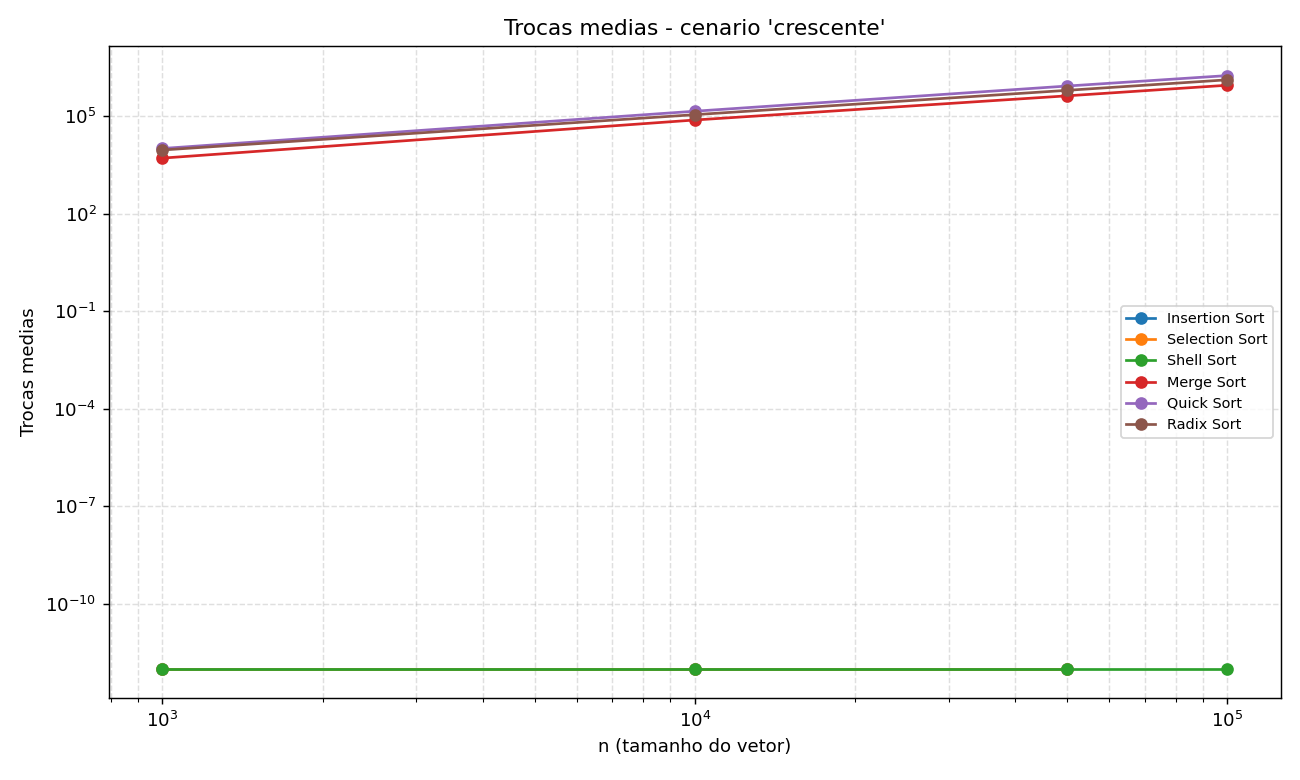
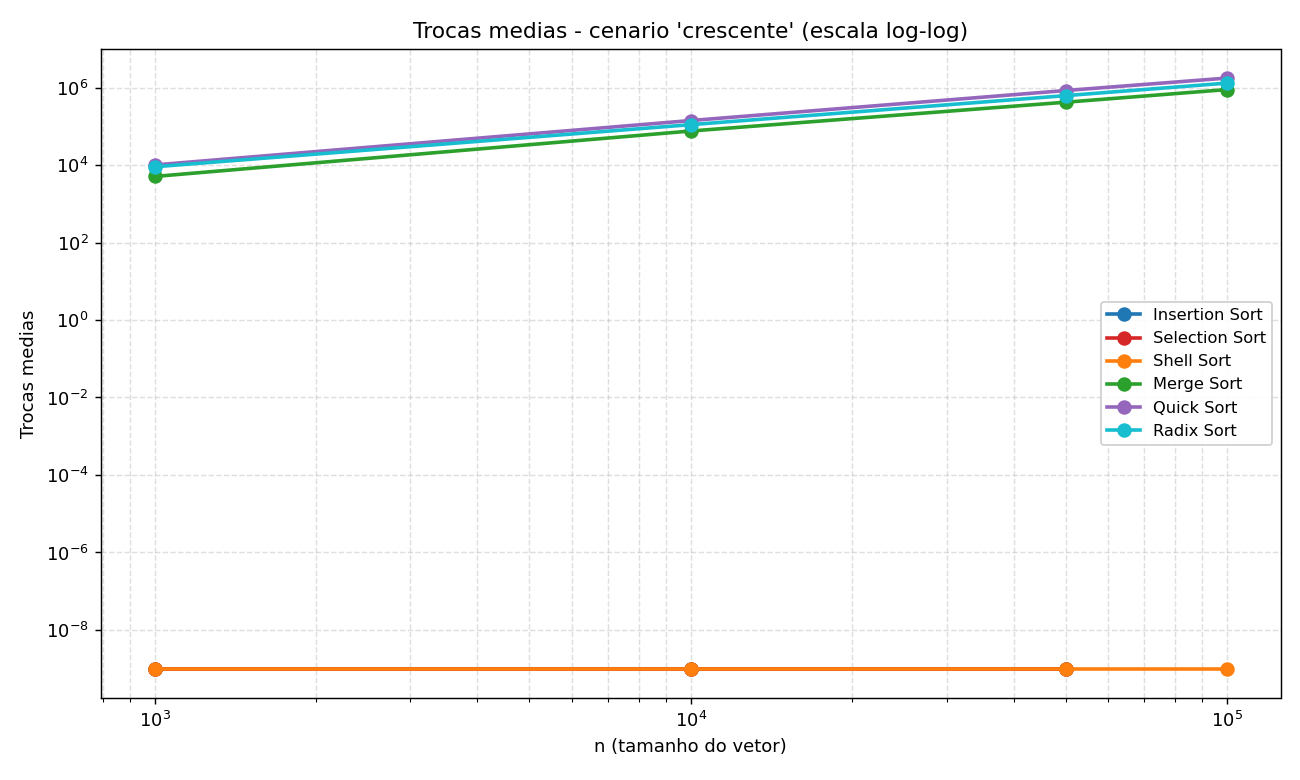
desafio2: graficos de tempo medio em ms + visualizacoes adicionais
- Tempo medio (ms): line charts log-log e barras agrupadas migrados de s -> ms,
  com cores consistentes por algoritmo e rotulos auto-escalaveis (us/ms/s).
- Novo: resumo_tempo_ms_por_algoritmo.png - grade 2x3 com cenarios sobrepostos
  por algoritmo, facilitando comparar comportamento entre cenarios.
- Novo: heatmap_tempo_ms.png - matriz algoritmo x (cenario, tamanho) com
  contraste de texto adaptativo, marcando TIMEOUTs com '-'.
- Novo: ranking_tempo_ms.png - barras horizontais ordenadas por cenario,
  escolhendo o maior tamanho com maior cobertura de algoritmos (e marcando
  TIMEOUTs explicitamente em vez de omiti-los).

https://claude.ai/code/session_01U2YK77NAQtfMPWeU8LprrY

diff --git a/desafio2/relatorio.py b/desafio2/relatorio.py
@@ -194,6 +194,26 @@ def _medias_indexadas(linhas: list[dict]):
     return out
 
 
+# Paleta consistente entre todos os graficos: cada algoritmo mantem a mesma cor.
+CORES_ALGOS = {
+    "Insertion Sort": "#1f77b4",
+    "Selection Sort": "#d62728",
+    "Shell Sort":     "#ff7f0e",
+    "Merge Sort":     "#2ca02c",
+    "Quick Sort":     "#9467bd",
+    "Radix Sort":     "#17becf",
+}
+
+
+def _fmt_ms(v_ms: float) -> str:
+    """Rotulo amigavel para tempos em ms (auto-escala us/ms/s)."""
+    if v_ms < 1:
+        return f"{v_ms * 1000:.0f} us"
+    if v_ms < 1000:
+        return f"{v_ms:.1f} ms"
+    return f"{v_ms / 1000:.2f} s"
+
+
 def gerar_graficos(linhas: list[dict], dest: Path) -> None:
     dest.mkdir(parents=True, exist_ok=True)
     med = _medias_indexadas(linhas)
@@ -201,13 +221,14 @@ def gerar_graficos(linhas: list[dict], dest: Path) -> None:
     algos = list(ALGORITMOS.keys())
     tamanhos_ord = list(TAMANHOS.keys())
 
-    # 1) Linhas: x = n, y = indicador medio, uma curva por algoritmo
-    #    (escala log-log para acomodar O(n^2) vs O(n log n)).
+    # -----------------------------------------------------------------------
+    # 1) Linhas log-log por cenario: tempo medio (ms), comparacoes, trocas.
+    # -----------------------------------------------------------------------
     for cen in CENARIOS_ESCALAVEIS:
-        for chave_ind, nome_ind in [
-            ("tempo_s", "Tempo medio (s)"),
-            ("comparacoes", "Comparacoes medias"),
-            ("trocas", "Trocas medias"),
+        for chave_ind, nome_ind, em_ms in [
+            ("tempo_s",     "Tempo medio (ms)",   True),
+            ("comparacoes", "Comparacoes medias", False),
+            ("trocas",      "Trocas medias",      False),
         ]:
             fig, ax = plt.subplots(figsize=(10, 6))
             algo_plotado = False
@@ -216,10 +237,16 @@ def gerar_graficos(linhas: list[dict], dest: Path) -> None:
                 for tam in tamanhos_ord:
                     chave = (cen, tam, algo)
                     if chave in med:
+                        v = med[chave][chave_ind]
+                        if em_ms:
+                            v *= 1000.0  # s -> ms
                         xs.append(TAMANHOS[tam])
-                        ys.append(max(med[chave][chave_ind], 1e-12))
+                        ys.append(max(v, 1e-9))
                 if len(xs) >= 2:
-                    ax.plot(xs, ys, marker="o", label=algo)
+                    ax.plot(
+                        xs, ys, marker="o", linewidth=2, markersize=7,
+                        color=CORES_ALGOS.get(algo), label=algo,
+                    )
                     algo_plotado = True
 
             if not algo_plotado:
@@ -228,18 +255,22 @@ def gerar_graficos(linhas: list[dict], dest: Path) -> None:
 
             ax.set_xlabel("n (tamanho do vetor)")
             ax.set_ylabel(nome_ind)
-            ax.set_title(f"{nome_ind} - cenario '{cen}'")
+            ax.set_title(f"{nome_ind} - cenario '{cen}' (escala log-log)")
             ax.set_xscale("log")
             ax.set_yscale("log")
             ax.grid(True, which="both", linestyle="--", alpha=0.4)
-            ax.legend(fontsize=8)
+            ax.legend(fontsize=9, loc="best", framealpha=0.9)
             fig.tight_layout()
-            arq = dest / f"{chave_ind}_{cen.replace(' ', '_')}.png"
+            sufixo = "tempo_ms" if em_ms else chave_ind
+            arq = dest / f"{sufixo}_{cen.replace(' ', '_')}.png"
             fig.savefig(arq, dpi=130)
             plt.close(fig)
             print(f"Grafico: {arq}")
 
-    # 2) Barras: para cada tamanho fixo, comparar algoritmos em cada cenario.
+    # -----------------------------------------------------------------------
+    # 2) Barras agrupadas por tamanho: tempo medio (ms) de cada algoritmo
+    #    em cada cenario; rotulo de valor no topo de cada barra.
+    # -----------------------------------------------------------------------
     for tam in ("media", "grande", "super_grande"):
         cenarios_disp = [
             c for c in CENARIOS_ESCALAVEIS
@@ -248,28 +279,213 @@ def gerar_graficos(linhas: list[dict], dest: Path) -> None:
         if not cenarios_disp:
             continue
 
-        fig, ax = plt.subplots(figsize=(11, 6))
+        fig, ax = plt.subplots(figsize=(13, 7))
         x = np.arange(len(algos))
         largura = 0.8 / len(cenarios_disp)
+        cmap = plt.get_cmap("tab10")
         for i, cen in enumerate(cenarios_disp):
-            ys = [
-                med.get((cen, tam, a), {}).get("tempo_s", 0)
+            ys_ms = [
+                med.get((cen, tam, a), {}).get("tempo_s", 0) * 1000.0
                 for a in algos
             ]
-            ax.bar(x + i * largura, ys, largura, label=cen)
+            barras = ax.bar(
+                x + i * largura, ys_ms, largura,
+                label=cen, color=cmap(i),
+            )
+            for rect, valor in zip(barras, ys_ms):
+                if valor <= 0:
+                    continue
+                ax.text(
+                    rect.get_x() + rect.get_width() / 2,
+                    valor * 1.05,
+                    _fmt_ms(valor),
+                    ha="center", va="bottom",
+                    fontsize=7, rotation=90,
+                )
 
         ax.set_xticks(x + (len(cenarios_disp) - 1) * largura / 2)
         ax.set_xticklabels(algos, rotation=20, ha="right")
-        ax.set_ylabel("Tempo medio (s)")
+        ax.set_ylabel("Tempo medio (ms)")
         ax.set_title(f"Tempo por algoritmo - tamanho {tam} (n={TAMANHOS[tam]})")
         ax.set_yscale("log")
-        ax.grid(True, axis="y", linestyle="--", alpha=0.4)
-        ax.legend(fontsize=8)
+        ax.grid(True, axis="y", which="both", linestyle="--", alpha=0.4)
+        ax.legend(fontsize=9, loc="upper left", framealpha=0.9)
         fig.tight_layout()
         arq = dest / f"barras_tempo_{tam}.png"
         fig.savefig(arq, dpi=130)
         plt.close(fig)
         print(f"Grafico: {arq}")
+
+    # -----------------------------------------------------------------------
+    # 3) Resumo por algoritmo: cada algoritmo tem um sub-plot mostrando como
+    #    o tempo medio (ms) cresce com n para cada cenario. Da pra comparar
+    #    o comportamento dentro de um mesmo algoritmo de forma direta.
+    # -----------------------------------------------------------------------
+    fig, axes = plt.subplots(2, 3, figsize=(16, 9), sharex=True, sharey=True)
+    cmap_cen = plt.get_cmap("tab10")
+    for ax, algo in zip(axes.flat, algos):
+        for i, cen in enumerate(CENARIOS_ESCALAVEIS):
+            xs, ys = [], []
+            for tam in tamanhos_ord:
+                chave = (cen, tam, algo)
+                if chave in med:
+                    xs.append(TAMANHOS[tam])
+                    ys.append(max(med[chave]["tempo_s"] * 1000.0, 1e-9))
+            if len(xs) >= 2:
+                ax.plot(
+                    xs, ys, marker="o", linewidth=1.8,
+                    color=cmap_cen(i), label=cen,
+                )
+        ax.set_title(algo, fontsize=11)
+        ax.set_xscale("log")
+        ax.set_yscale("log")
+        ax.grid(True, which="both", linestyle="--", alpha=0.4)
+
+    for ax in axes[-1, :]:
+        ax.set_xlabel("n")
+    for ax in axes[:, 0]:
+        ax.set_ylabel("Tempo medio (ms)")
+
+    handles, labels = axes[0, 0].get_legend_handles_labels()
+    fig.legend(
+        handles, labels, loc="lower center", ncol=len(CENARIOS_ESCALAVEIS),
+        fontsize=9, bbox_to_anchor=(0.5, -0.01),
+    )
+    fig.suptitle("Tempo medio (ms) por algoritmo - cenarios sobrepostos",
+                 fontsize=13)
+    fig.tight_layout(rect=(0, 0.04, 1, 0.97))
+    arq = dest / "resumo_tempo_ms_por_algoritmo.png"
+    fig.savefig(arq, dpi=130)
+    plt.close(fig)
+    print(f"Grafico: {arq}")
+
+    # -----------------------------------------------------------------------
+    # 4) Heatmap: tempo medio (ms) com algoritmos nas linhas e
+    #    (cenario, tamanho) nas colunas. Otimo para um overview rapido.
+    # -----------------------------------------------------------------------
+    colunas = []
+    for cen in CENARIOS_ESCALAVEIS:
+        for tam in tamanhos_ord:
+            if any((cen, tam, a) in med for a in algos):
+                colunas.append((cen, tam))
+
+    matriz = np.full((len(algos), len(colunas)), np.nan)
+    for i, algo in enumerate(algos):
+        for j, (cen, tam) in enumerate(colunas):
+            chave = (cen, tam, algo)
+            if chave in med:
+                matriz[i, j] = med[chave]["tempo_s"] * 1000.0
+
+    fig, ax = plt.subplots(figsize=(max(10, 0.7 * len(colunas)), 5.5))
+    matriz_log = np.log10(np.where(np.isnan(matriz) | (matriz <= 0),
+                                    np.nan, matriz))
+    im = ax.imshow(matriz_log, aspect="auto", cmap="viridis")
+
+    ax.set_xticks(range(len(colunas)))
+    ax.set_xticklabels(
+        [f"{c}\n{t}" for c, t in colunas], rotation=30, ha="right", fontsize=8,
+    )
+    ax.set_yticks(range(len(algos)))
+    ax.set_yticklabels(algos)
+    ax.set_title("Tempo medio (ms) - heatmap (cor em log10 ms)")
+
+    for i in range(matriz.shape[0]):
+        for j in range(matriz.shape[1]):
+            v = matriz[i, j]
+            if np.isnan(v):
+                ax.text(j, i, "—", ha="center", va="center",
+                        color="#444444", fontsize=8)
+            else:
+                # Threshold acima da metade da escala -> fundo claro -> texto escuro.
+                vmin, vmax = np.nanmin(matriz_log), np.nanmax(matriz_log)
+                norm = (matriz_log[i, j] - vmin) / max(vmax - vmin, 1e-9)
+                cor_txt = "black" if norm > 0.55 else "white"
+                ax.text(j, i, _fmt_ms(v), ha="center", va="center",
+                        color=cor_txt, fontsize=7)
+
+    cbar = fig.colorbar(im, ax=ax)
+    cbar.set_label("log10(tempo em ms)")
+    fig.tight_layout()
+    arq = dest / "heatmap_tempo_ms.png"
+    fig.savefig(arq, dpi=130)
+    plt.close(fig)
+    print(f"Grafico: {arq}")
+
+    # -----------------------------------------------------------------------
+    # 5) Ranking horizontal: top algoritmos no maior tamanho disponivel,
+    #    um sub-plot por cenario. Mostra com clareza quem e mais rapido em
+    #    cada cenario com o valor em ms ao lado da barra.
+    # -----------------------------------------------------------------------
+    fig, axes = plt.subplots(
+        len(CENARIOS_ESCALAVEIS), 1,
+        figsize=(12, 3.0 * len(CENARIOS_ESCALAVEIS)),
+        sharex=False,
+    )
+    if len(CENARIOS_ESCALAVEIS) == 1:
+        axes = [axes]
+
+    for ax, cen in zip(axes, CENARIOS_ESCALAVEIS):
+        # Maior tamanho onde TODOS os algoritmos completaram, com fallback
+        # para o tamanho com mais cobertura caso ninguem cubra todos.
+        melhor_tam, melhor_cobertura = None, -1
+        for tam in tamanhos_ord:
+            cobertura = sum(1 for a in algos if (cen, tam, a) in med)
+            if cobertura == 0:
+                continue
+            # Prefere tamanho com cobertura maxima e, em empate, o maior n.
+            if (cobertura > melhor_cobertura
+                    or (cobertura == melhor_cobertura and TAMANHOS[tam]
+                        > TAMANHOS[melhor_tam])):
+                melhor_tam, melhor_cobertura = tam, cobertura
+        tam_alvo = melhor_tam
+        if tam_alvo is None:
+            ax.set_visible(False)
+            continue
+
+        pares = []
+        for a in algos:
+            chave = (cen, tam_alvo, a)
+            if chave in med:
+                pares.append((a, med[chave]["tempo_s"] * 1000.0))
+            else:
+                pares.append((a + " (TIMEOUT)", float("nan")))
+        # Ordena: NaN ao fundo, demais por tempo crescente.
+        pares.sort(key=lambda x: (np.isnan(x[1]), x[1]))
+        nomes = [p[0] for p in pares]
+        valores = [p[1] for p in pares]
+
+        cores = [
+            CORES_ALGOS.get(n.replace(" (TIMEOUT)", ""), "#888888")
+            for n in nomes
+        ]
+        valores_plot = [0.0 if np.isnan(v) else v for v in valores]
+        barras = ax.barh(nomes, valores_plot, color=cores)
+        ax.set_xscale("log")
+        ax.set_title(
+            f"{cen} (tamanho {tam_alvo}, n={TAMANHOS[tam_alvo]})",
+            fontsize=10,
+        )
+        ax.grid(True, axis="x", which="both", linestyle="--", alpha=0.4)
+        for rect, v in zip(barras, valores):
+            if np.isnan(v):
+                ax.text(
+                    1, rect.get_y() + rect.get_height() / 2,
+                    "TIMEOUT", va="center", fontsize=8, color="#777777",
+                )
+            else:
+                ax.text(
+                    v * 1.05, rect.get_y() + rect.get_height() / 2,
+                    _fmt_ms(v), va="center", fontsize=8,
+                )
+        ax.set_xlabel("Tempo medio (ms, escala log)")
+
+    fig.suptitle("Ranking de tempo medio (ms) por cenario - maior n disponivel",
+                 fontsize=13)
+    fig.tight_layout(rect=(0, 0, 1, 0.97))
+    arq = dest / "ranking_tempo_ms.png"
+    fig.savefig(arq, dpi=130)
+    plt.close(fig)
+    print(f"Grafico: {arq}")
 
 
 # ---------------------------------------------------------------------------
